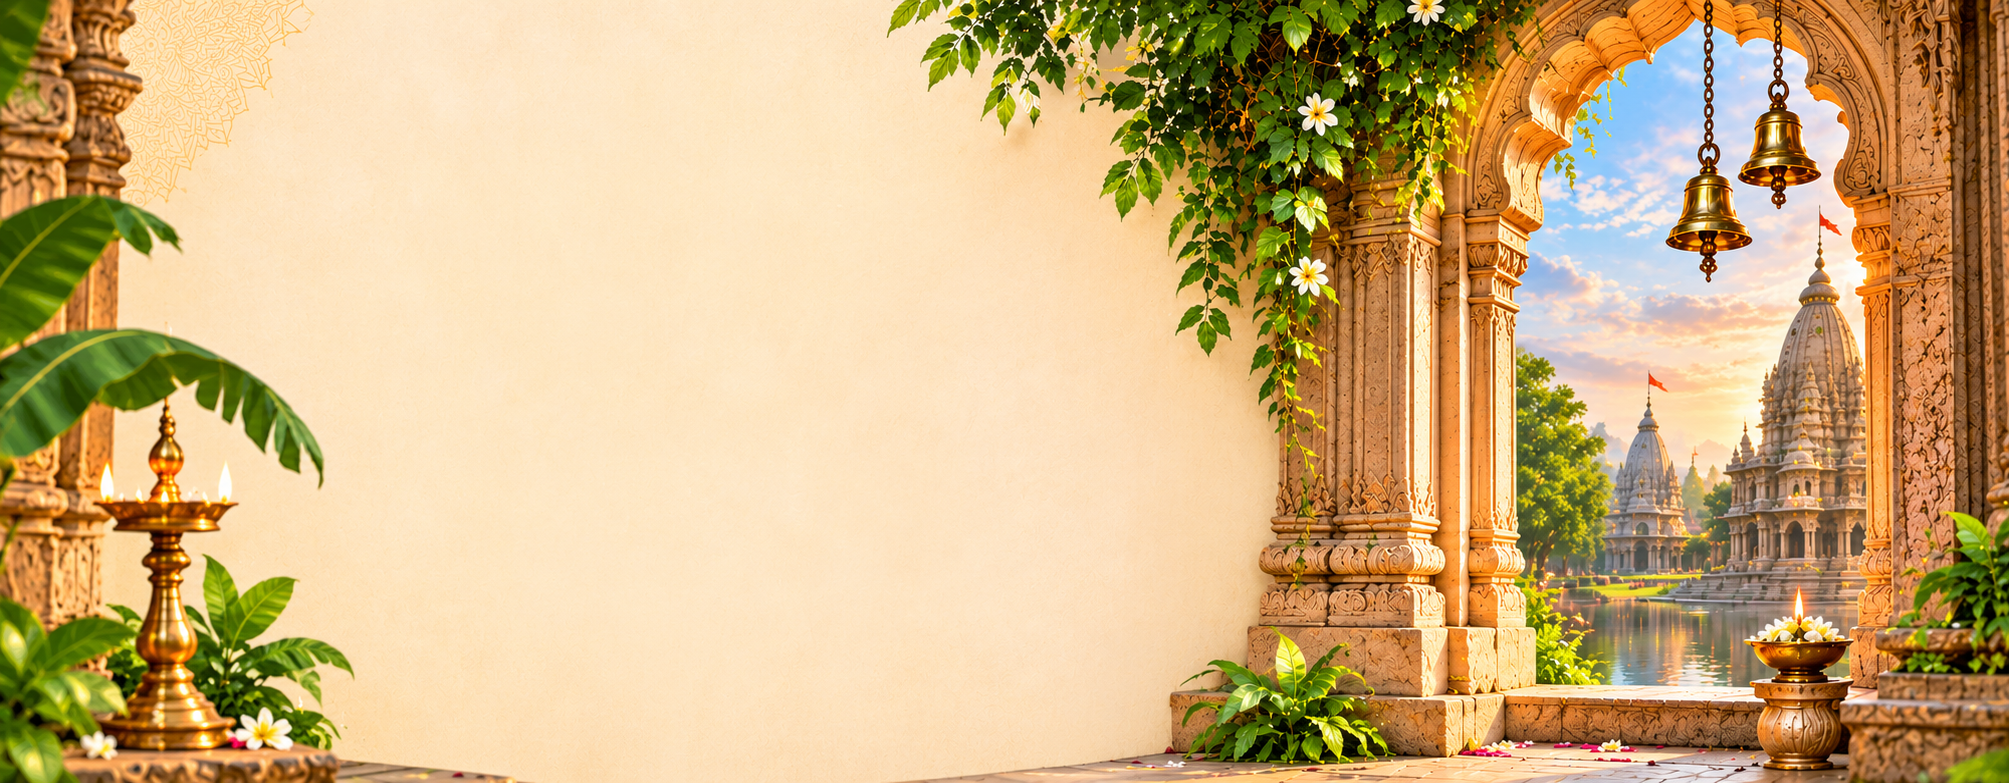
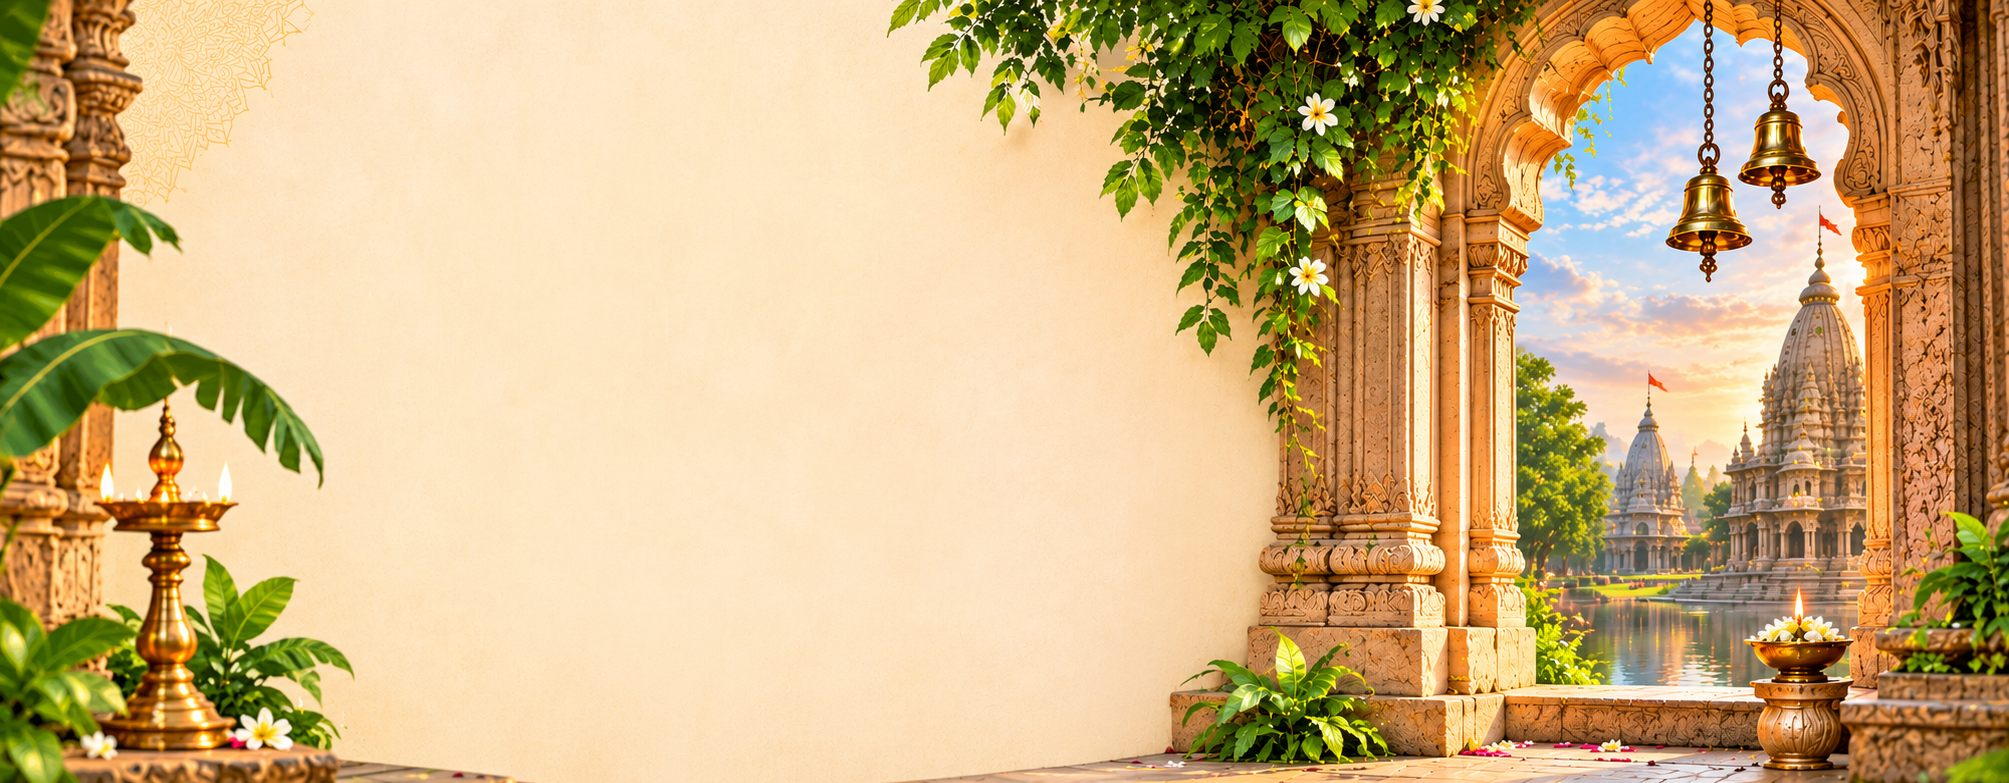
CTA: compress background image 2.5MB→283KB, increase text margin to 14vw
Image was 2553 KB causing slow section load; re-saved at 82% JPEG
quality (283 KB, visually identical). Margin-left on overlay raised
to 14vw so text clears the banana-leaf decoration and lands in the
cream wall zone on all desktop sizes.

diff --git a/index.html b/index.html
@@ -26,7 +26,7 @@
   <link rel="stylesheet" href="css/style.css?v=nomantra-20261027">
   <link rel="stylesheet" href="css/responsive.css?v=navgap-20261025">
   <link rel="stylesheet" href="css/hero-slider.css?v=herorev-20261102">
-  <link rel="stylesheet" href="css/home.css?v=ctashift2-20261102">
+  <link rel="stylesheet" href="css/home.css?v=ctashift3-20261102">
   <!-- Site content + theme (generated by the admin panel) â€” must load before js/components.js -->
   <script src="content/serve.php"></script>
   <!-- Hero slider: only the first slide image is requested up front; the others load after it -->

diff --git a/css/home.css b/css/home.css
@@ -558,7 +558,7 @@
   width: 54%; min-height: 560px;
   display: flex; flex-direction: column; justify-content: center;
   padding: 72px clamp(24px, 7vw, 96px) 72px clamp(28px, 8vw, 112px);
-  margin-left: 8vw; /* shift text into cream wall zone, past banana-leaf edge */
+  margin-left: 14vw; /* shift text into cream wall zone, past banana-leaf edge */
 }
 
 /* Label — lotus icon + small uppercase text */
